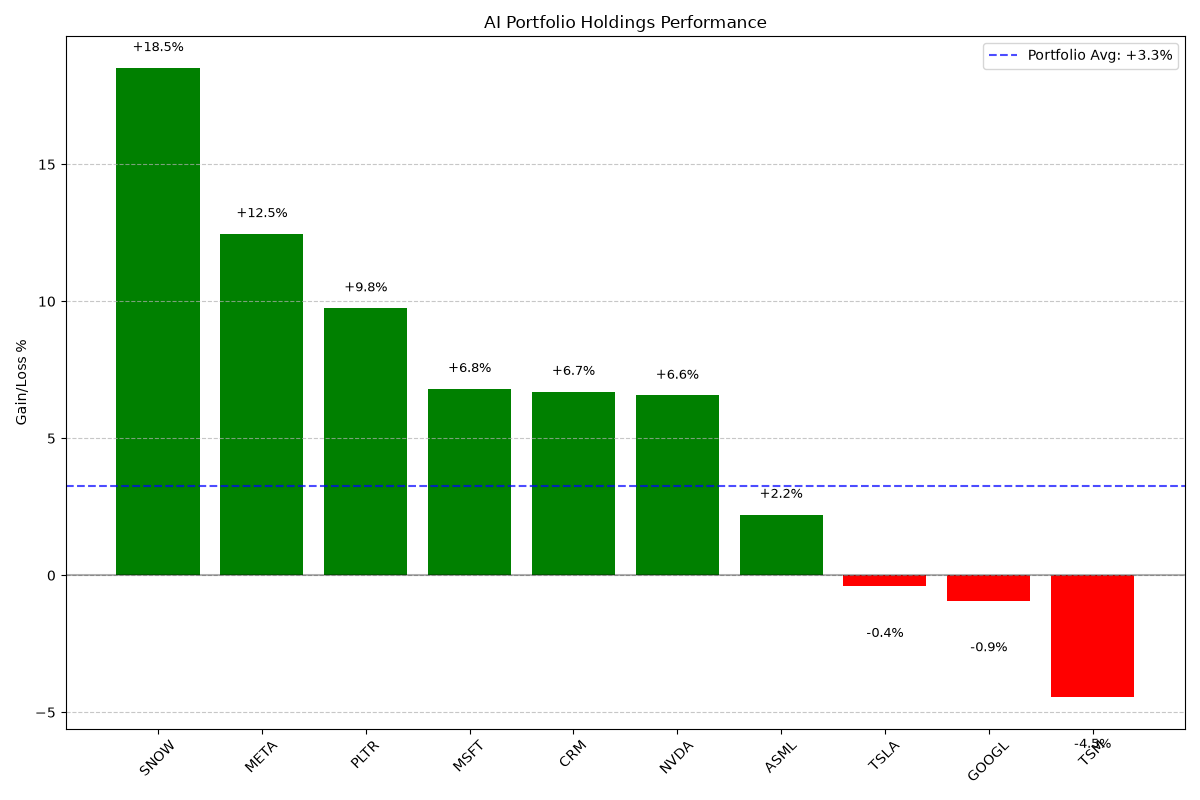
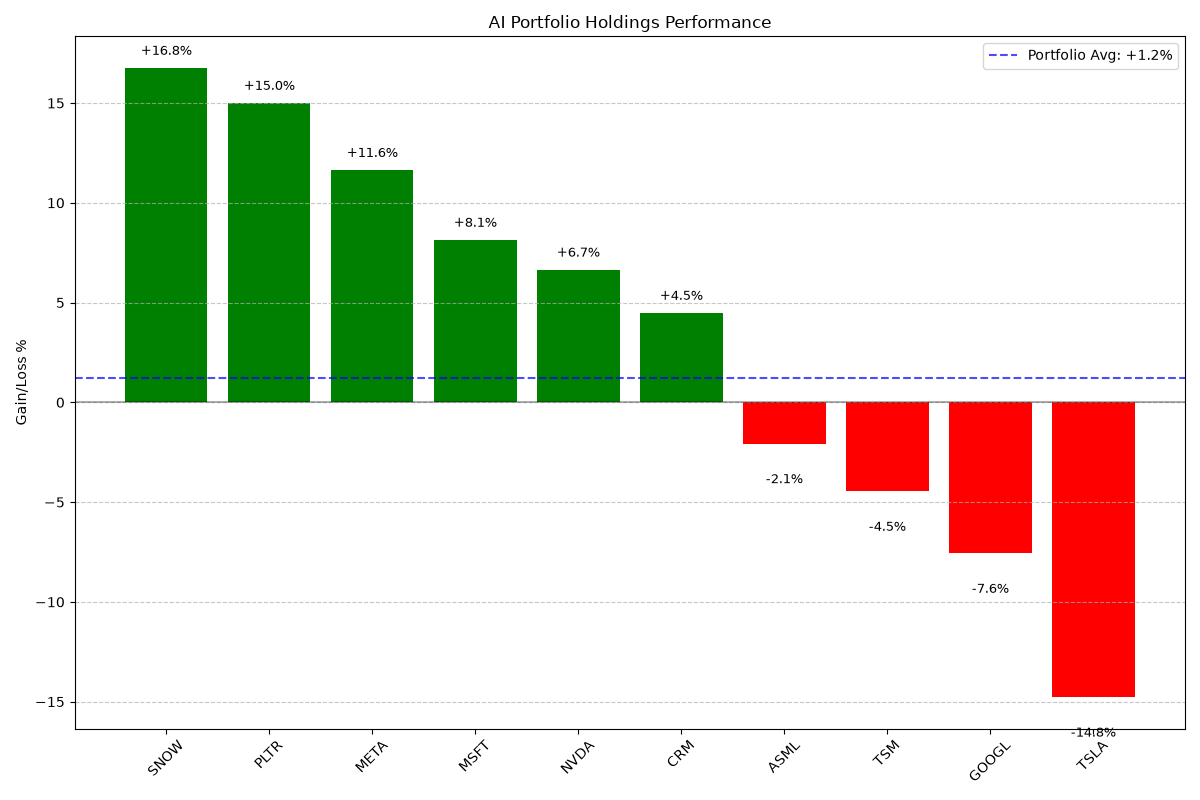
Auto-update AI tracker dashboard

diff --git a/docs/ai.html b/docs/ai.html
@@ -33,14 +33,14 @@
             
             <div class="dashboard-section">
                 <h2>Portfolio Summary</h2>
-                <p>Last Updated: 2026-07-24 02:38:56</p>
-                <p>Total Portfolio Value: <strong>$201,290.55</strong> | 
+                <p>Last Updated: 2026-07-25 02:36:27</p>
+                <p>Total Portfolio Value: <strong>$196,157.75</strong> | 
                    Overall Performance: <strong class="positive">
-                   +3.27%</strong></p>
+                   +1.20%</strong></p>
                 
                 <div class="insights">
                     <h3>Key Insights</h3>
-                    <ul><li>Portfolio value: $201,290.55, Performance: +3.27%</li><li>Top performers: SNOW (+18.52%), META (+12.46%), PLTR (+9.75%)</li><li>Underperformers: TSM (-4.45%), GOOGL (-0.93%), TSLA (-0.40%)</li><li>Best category: Emerging_AI (+14.14%), 8.8% of portfolio</li><li>AI high potential: SNOW (AI score: 10.0, 3m: +85.65%), ASML (AI score: 9.8, 3m: +25.79%)</li></ul>
+                    <ul><li>Portfolio value: $196,157.75, Performance: +1.20%</li><li>Top performers: SNOW (+16.77%), PLTR (+15.01%), META (+11.65%)</li><li>Underperformers: TSLA (-14.78%), GOOGL (-7.57%), TSM (-4.46%)</li><li>Best category: Emerging_AI (+15.89%), 9.0% of portfolio</li><li>AI high potential: ASML (AI score: 10.0, 3m: +30.22%), SNOW (AI score: 10.0, 3m: +85.98%)</li></ul>
                 </div>
             </div>
             
@@ -65,10 +65,10 @@
       <td>ASML</td>
       <td>ASML Holding N.V. - New York Re</td>
       <td>25</td>
-      <td>$1,801.86</td>
-      <td>$45,046.50</td>
-      <td>+2.22%</td>
-      <td>+0.95%</td>
+      <td>$1,803.00</td>
+      <td>$45,075.00</td>
+      <td>-2.07%</td>
+      <td>+3.17%</td>
       <td>Infrastructure</td>
       <td>Europe</td>
     </tr>
@@ -76,10 +76,10 @@
       <td>TSM</td>
       <td>Taiwan Semiconductor Manufactur</td>
       <td>100</td>
-      <td>$421.21</td>
-      <td>$42,121.00</td>
-      <td>-4.45%</td>
-      <td>+2.80%</td>
+      <td>$415.58</td>
+      <td>$41,558.00</td>
+      <td>-4.46%</td>
+      <td>+4.32%</td>
       <td>Infrastructure</td>
       <td>Asia</td>
     </tr>
@@ -87,10 +87,10 @@
       <td>MSFT</td>
       <td>Microsoft Corporation</td>
       <td>75</td>
-      <td>$390.34</td>
-      <td>$29,275.50</td>
-      <td>+6.81%</td>
-      <td>-2.68%</td>
+      <td>$381.58</td>
+      <td>$28,618.50</td>
+      <td>+8.15%</td>
+      <td>-3.11%</td>
       <td>Software_Platforms</td>
       <td>US</td>
     </tr>
@@ -98,10 +98,10 @@
       <td>META</td>
       <td>Meta Platforms, Inc.</td>
       <td>40</td>
-      <td>$627.17</td>
-      <td>$25,086.80</td>
-      <td>+12.46%</td>
-      <td>-5.62%</td>
+      <td>$606.10</td>
+      <td>$24,244.00</td>
+      <td>+11.65%</td>
+      <td>-6.18%</td>
       <td>Applications</td>
       <td>US</td>
     </tr>
@@ -109,10 +109,10 @@
       <td>GOOGL</td>
       <td>Alphabet Inc.</td>
       <td>50</td>
-      <td>$342.09</td>
-      <td>$17,104.50</td>
-      <td>-0.93%</td>
-      <td>-3.49%</td>
+      <td>$317.69</td>
+      <td>$15,884.50</td>
+      <td>-7.57%</td>
+      <td>-8.39%</td>
       <td>Software_Platforms</td>
       <td>US</td>
     </tr>
@@ -120,10 +120,10 @@
       <td>PLTR</td>
       <td>Palantir Technologies Inc.</td>
       <td>100</td>
-      <td>$124.57</td>
-      <td>$12,457.00</td>
-      <td>+9.75%</td>
-      <td>-7.34%</td>
+      <td>$123.37</td>
+      <td>$12,337.00</td>
+      <td>+15.01%</td>
+      <td>-6.81%</td>
       <td>Emerging_AI</td>
       <td>US</td>
     </tr>
@@ -131,10 +131,10 @@
       <td>NVDA</td>
       <td>NVIDIA Corporation</td>
       <td>50</td>
-      <td>$212.06</td>
-      <td>$10,603.00</td>
-      <td>+6.56%</td>
-      <td>+2.25%</td>
+      <td>$208.76</td>
+      <td>$10,438.00</td>
+      <td>+6.65%</td>
+      <td>+2.93%</td>
       <td>Infrastructure</td>
       <td>US</td>
     </tr>
@@ -142,10 +142,10 @@
       <td>TSLA</td>
       <td>Tesla, Inc.</td>
       <td>25</td>
-      <td>$374.01</td>
-      <td>$9,350.25</td>
-      <td>-0.40%</td>
-      <td>-4.36%</td>
+      <td>$319.69</td>
+      <td>$7,992.25</td>
+      <td>-14.78%</td>
+      <td>-16.06%</td>
       <td>Applications</td>
       <td>US</td>
     </tr>
@@ -153,10 +153,10 @@
       <td>SNOW</td>
       <td>Snowflake Inc.</td>
       <td>20</td>
-      <td>$267.80</td>
-      <td>$5,356.00</td>
-      <td>+18.52%</td>
-      <td>-0.82%</td>
+      <td>$265.13</td>
+      <td>$5,302.60</td>
+      <td>+16.77%</td>
+      <td>-1.40%</td>
       <td>Emerging_AI</td>
       <td>US</td>
     </tr>
@@ -164,10 +164,10 @@
       <td>CRM</td>
       <td>Salesforce, Inc.</td>
       <td>30</td>
-      <td>$163.00</td>
-      <td>$4,890.00</td>
-      <td>+6.70%</td>
-      <td>-5.61%</td>
+      <td>$156.93</td>
+      <td>$4,707.90</td>
+      <td>+4.49%</td>
+      <td>-8.10%</td>
       <td>Software_Platforms</td>
       <td>US</td>
     </tr>
